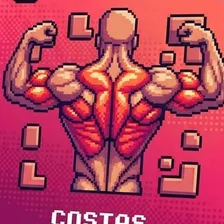
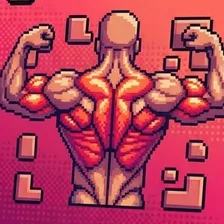
Devolve o card com nome e contagem, e enxuga as imagens
O cartaz de fliperama inteiro voltou a ser ícone: card com nome,
descrição e a contagem viva de exercícios, como antes — só que o quadro
agora traz a figura do treino no lugar do pictograma.

As imagens saíram de 2,7 MB para 56 KB. Os renders de 688x1529 foram
para arte-fonte/, fora do que o app empacota, e o workflow Imagens corta
a figura num quadrado de 358px e reduz para 224px em webp. O recorte
sobe até antes do título desenhado e para depois das setas falsas do
render, então sobra só o boneco.

Os quatro arquivos entraram na lista do service worker: são leves o
bastante para ficarem disponíveis sem sinal.

diff --git a/assets/js/views/selecao.js b/assets/js/views/selecao.js
@@ -1,24 +1,18 @@
 /* Seleção do tipo de treino. */
 const Selecao = (() => {
-  /* Quando há arte, o card é a arte: o render já traz nome, descrição e
-     contagem desenhados, e repetir isso por fora seria dizer duas vezes.
-     O nome vai no aria-label, para quem navega por leitor de tela. */
-  function cartaz(tipo, indice) {
-    return `
-      <button class="opcao opcao--arte" data-tipo="${tipo.id}"
-              style="--giro:${indice % 2 ? 1 : -1}deg"
-              aria-label="${tipo.nome} · ${Dados.exerciciosDe(tipo.id).length} exercícios">
-        <img class="opcao__arte" src="${Ilustracoes.de(tipo.id)}" alt="" loading="lazy">
-      </button>`;
+  /** Arte do treino quando houver; o pictograma do músculo enquanto não. */
+  function arte(tipo) {
+    const imagem = Ilustracoes.de(tipo.id);
+    return imagem
+      ? `<img class="opcao__arte" src="${imagem}" alt="" loading="lazy">`
+      : Icones.musculo(tipo.id);
   }
 
   function opcao(tipo, indice) {
-    if (Ilustracoes.de(tipo.id)) return cartaz(tipo, indice);
-
     return `
       <button class="opcao" data-tipo="${tipo.id}"
               style="--cor:${tipo.cor}; --tinta:${tipo.tinta}; --giro:${indice % 2 ? 1 : -1}deg">
-        <span class="opcao__icone">${Icones.musculo(tipo.id)}</span>
+        <span class="opcao__icone">${arte(tipo)}</span>
         <span class="opcao__texto">
           <span class="opcao__nome">${tipo.nome}</span>
           <span class="opcao__desc">${tipo.descricao}</span>

diff --git a/assets/css/styles.css b/assets/css/styles.css
@@ -571,15 +571,12 @@ button {
   display: block;
 }
 
-/* ── Cartaz de fliperama ──────────────────────────────────
-   O card vira a arte inteira. O recorte 4/5 tira a mesa e o teto do
-   render e deixa o gabinete preenchendo o quadro. */
-.arcade .opcao--arte {
-  display: block;
-  padding: 0;
+/* ── Arte no lugar do pictograma ──────────────────────────
+   O recorte já vem quadrado e apertado na figura, então preenche o
+   quadro inteiro em vez de respirar como o desenho vetorial. */
+.arcade .opcao__icone:has(.opcao__arte) {
   overflow: hidden;
-  aspect-ratio: 4 / 5;
-  background: #1B1230;
+  background: none;
 }
 
 .arcade .opcao__arte {
@@ -587,7 +584,6 @@ button {
   height: 100%;
   display: block;
   object-fit: cover;
-  object-position: center 50%;
 }
 
 .arcade .opcao__texto { gap: 4px; }

diff --git a/assets/js/ilustracoes.js b/assets/js/ilustracoes.js
@@ -18,7 +18,7 @@ const Ilustracoes = (() => {
 
 /* ── Arte de cada treino ──────────────────────────────────
    Renders do fliperama, um por treino. */
-Ilustracoes.definir('peito-triceps', 'assets/treinos/peito-triceps.jpg');
-Ilustracoes.definir('costas-biceps', 'assets/treinos/costas-biceps.jpg');
-Ilustracoes.definir('perna', 'assets/treinos/perna.jpg');
-Ilustracoes.definir('superiores', 'assets/treinos/superiores.jpg');
+Ilustracoes.definir('peito-triceps', 'assets/treinos/peito-triceps.webp');
+Ilustracoes.definir('costas-biceps', 'assets/treinos/costas-biceps.webp');
+Ilustracoes.definir('perna', 'assets/treinos/perna.webp');
+Ilustracoes.definir('superiores', 'assets/treinos/superiores.webp');

diff --git a/sw.js b/sw.js
@@ -1,7 +1,7 @@
 /* Service worker: guarda o app para funcionar sem sinal na academia.
    Estratégia de rede primeiro — o app é pequeno e assim uma versão
    nova chega logo; o cache entra quando a conexão falha. */
-const CACHE = 'bunnygym-v1-1';
+const CACHE = 'bunnygym-v1-4';
 
 const ARQUIVOS = [
   './',
@@ -20,6 +20,10 @@ const ARQUIVOS = [
   './assets/js/guia.js',
   './assets/js/demonstracao.js',
   './assets/js/ilustracoes.js',
+  './assets/treinos/peito-triceps.webp',
+  './assets/treinos/costas-biceps.webp',
+  './assets/treinos/perna.webp',
+  './assets/treinos/superiores.webp',
   './assets/js/componentes.js',
   './assets/js/router.js',
   './assets/js/views/dashboard.js',
